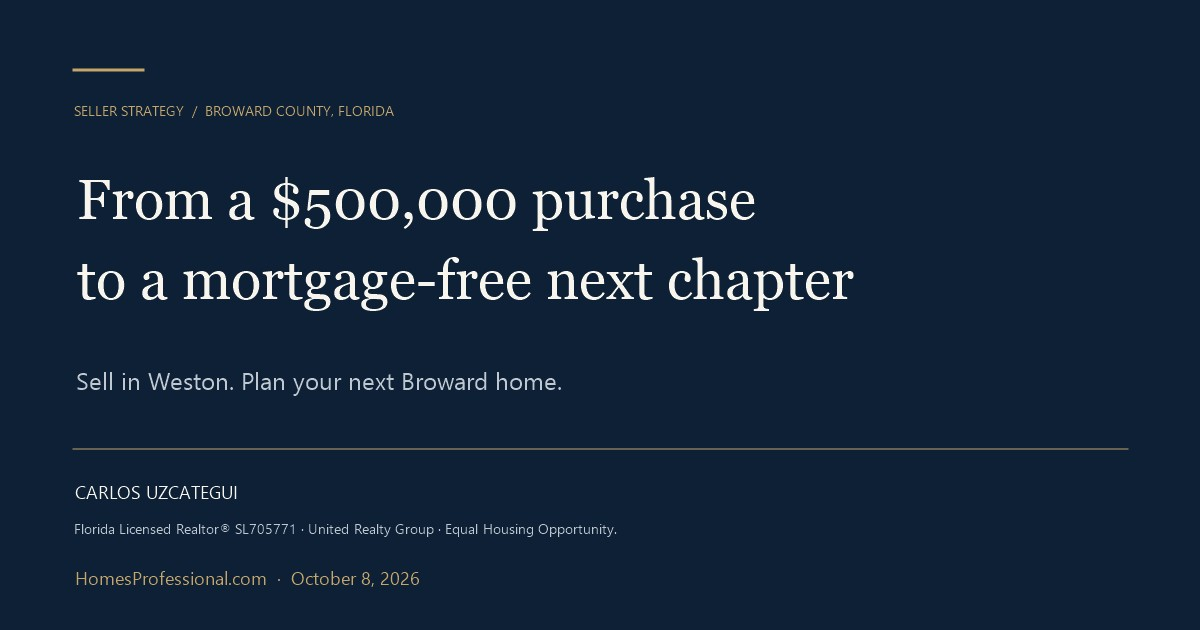
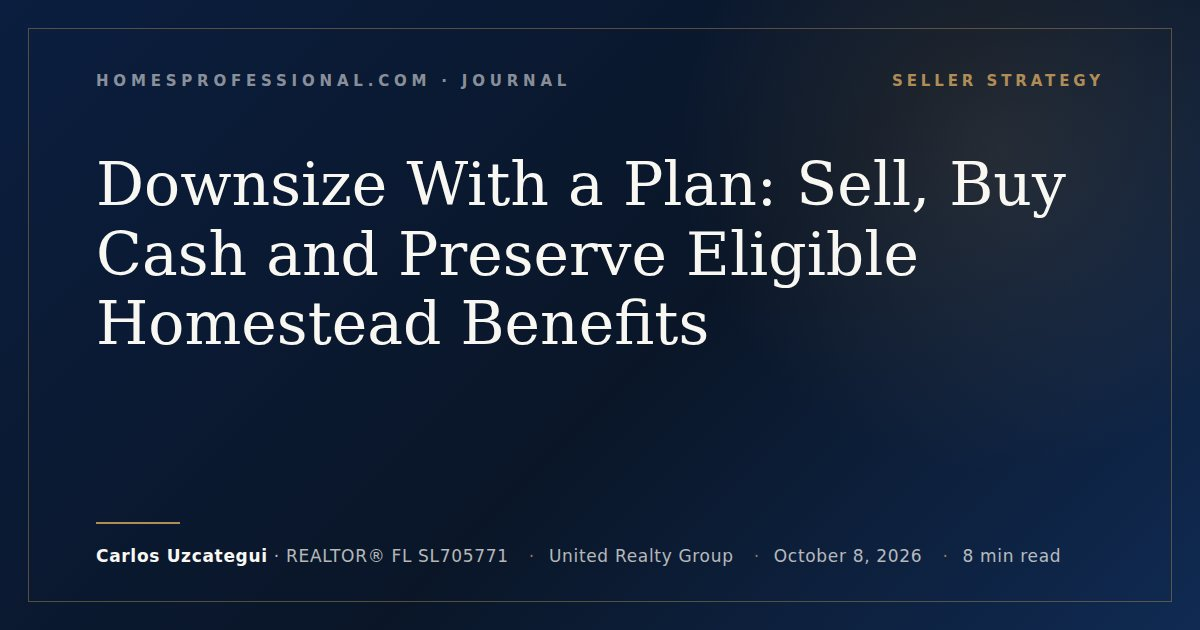
Publish approved downsizing journal revision
Coordinate post-closing occupancy, cash-purchase budgeting, homestead exemption, proportional portability and January 1 timing. Preserve the existing journal URL, original publication date and seller inquiry routing. Refresh the modification date, metadata, sitemap and share card.

Validation: local lint, complete verification suite, full prerender build, mobile and desktop render review, independent compliance and OG review, successful GitHub build and Netlify deploy preview. Carlos approved publication.

diff --git a/src/content/journal/weston-downsizing-equity-post-occupancy-homestead-portability.md b/src/content/journal/weston-downsizing-equity-post-occupancy-homestead-portability.md
@@ -1,9 +1,10 @@
 ---
-title: "From a $500,000 Purchase to a Mortgage-Free Next Chapter"
-seoTitle: "Broward Downsizing: Sell in Weston, Buy Your Next Home Cash"
+title: "Downsize With a Plan: Sell, Buy Cash and Preserve Eligible Homestead Benefits"
+seoTitle: "South Florida Downsizing: Cash & Homestead Portability"
 date: "2026-10-08"
+updated: "2026-10-21"
 slug: "weston-downsizing-equity-post-occupancy-homestead-portability"
-excerpt: "A Broward County plan to sell a Weston home, buy a townhome with cash, negotiate post-closing occupancy and preserve eligible homestead benefits."
+excerpt: "Plan a South Florida downsize around net sale proceeds, post-closing occupancy, a cash purchase and eligible Florida homestead portability."
 category: "Seller Strategy"
 image: "/images/journal/og/weston-downsizing-equity-post-occupancy-homestead-portability.jpg"
 created_by: "codex"
@@ -12,191 +13,106 @@ market: "Weston"
 funnel_stage: "consideration"
 ---
 
-## How a coordinated Broward County sale and cash purchase can turn accumulated equity into a simpler, more affordable home
+Your home may hold the equity to fund a more manageable next chapter. The question is whether selling it can leave you with the right replacement home, a lower monthly housing outlay and enough capital in reserve.
 
-A family bought its Weston home for $500,000 ten years ago. Today, imagine that home selling for $1 million. The bedrooms, garden and gathering spaces have served their purpose, but the family now wants less upkeep, lower monthly expenses and more flexibility.
+For a South Florida homeowner with sufficient net proceeds, the strategy can combine three decisions: purchase the next home without a mortgage, preserve eligible property-tax benefits and negotiate time to move after the sale closes.
 
-Could they use $500,000 of the available sale proceeds to buy a townhome outright in Broward County—and carry an eligible portion of their accumulated property-tax assessment benefit into that new home?
+We plan those decisions together. The post-closing stay provides time. The replacement purchase changes the household budget. Homestead exemption and portability can influence the new tax assessment. Each part must work for your circumstances.
 
-With sufficient net proceeds and the right transaction plan, that move can be possible. A negotiated post-closing occupancy agreement can also give them time to complete the purchase and move after their sale closes. The opportunity is to convert accumulated home equity into a home and budget that better suit the next chapter.
+## Start with the cash you can actually use
 
-For another household, the next chapter calls for additional bedrooms, a different location or a home better suited to daily life. The same planning discipline supports an upgrade, with a different replacement budget.
+Before choosing the next home, establish the amount available after the sale. Price appreciation, equity and net proceeds are different figures.
 
-The question is practical: **How do we turn the equity in your current Broward County home into the right next home within the county, while managing the timing, costs and disruption?**
+We begin with an estimated selling price, then account for the mortgage payoff, other liens, negotiated transaction expenses and any agreed concessions. We also identify money needed for the next purchase, moving, repairs, temporary occupancy and any applicable tax obligations.
 
-We approach the sale and purchase as one coordinated assignment. The plan starts with what you need from the move: a manageable monthly budget, room to grow, capital in reserve or a simpler routine.
+An occupancy deposit or escrow holdback may temporarily reduce the cash available at closing. The replacement-home budget must leave room for that restriction and your chosen emergency reserve.
 
-## Experience and infrastructure that serve your move
+**A cash purchase works only when available funds cover the purchase, its expenses and the reserves you intend to retain.** Spending every available dollar to eliminate a mortgage can leave the household with too little liquidity.
 
-Carlos Uzcategui brings 25 years of South Florida real estate experience, supported by United Realty Group's approximately 3,500-agent brokerage network. His work is backed by its Florida office network. [1]
+## Use post-closing occupancy to coordinate the move
 
-For homeowners, the value of that infrastructure is in its use: relevant agent relationships, local market knowledge, brokerage support and coordination across the communities you are considering. We combine MLS positioning, property presentation and outreach to appropriate buyer agents with direct management of negotiations and the next purchase. Agent participation and distribution depend on the property and the relevant channels.
+A negotiated post-closing occupancy agreement can allow you to remain temporarily in the home after ownership transfers. Once the sale closes and the available funds are disbursed, those proceeds can support the replacement purchase while you occupy the former home under the written arrangement.
 
-Professionalism means keeping your priorities visible at every stage. We examine the likely net proceeds, the replacement home's full carrying costs and the terms that can make the transition workable. The strongest offer for your circumstances may depend on financing certainty, inspection terms and possession timing as well as price.
+That sequence may help avoid temporary accommodation, storage and a second move when the two transactions fit within the agreed period. It also gives the next purchase a firm move-out deadline, so the replacement search and a backup plan should be underway before committing to the stay.
 
-## Sell, release equity and negotiate time to move
+The arrangement requires buyer agreement. We assess whether the proposed duration fits the buyer's financing, insurance, intended occupancy and applicable association requirements.
 
-A negotiated **post-closing occupancy agreement**, sometimes called a rent-back, can let a seller remain in the home for an agreed period after the sale closes.
+The written terms should settle the departure date, occupancy payment, deposit or holdback, utilities, maintenance, insurance responsibilities, damage, access, inspections and consequences of delayed possession. Legal counsel should address the agreement's terms and enforceability.
 
-Ownership transfers to the buyer. Once the transaction closes and funds are disbursed, the seller receives the available net proceeds after mortgage payoff, transaction costs and any agreed holdbacks. The seller then occupies the home under the written agreement rather than as its owner.
+Florida Realtors explains that the post-closing occupancy rider is not the complete occupancy agreement. It can make the contract contingent on reaching that agreement and provide termination rights if the parties cannot agree. The actual occupancy terms need to be resolved. [1]
 
-That sequence can allow you to use released equity for the next Broward County purchase while having time to complete the move. It can reduce the need for temporary accommodation, storage and a second move, depending on the schedule and costs negotiated.
+## Protect the homestead benefits that may support the move
 
-The written arrangement should address the departure date, occupancy payment, deposits or escrow, utilities, maintenance, insurance, damage, inspections and what happens if possession is delayed. Florida Realtors explains that the post-closing occupancy rider is not itself a complete occupancy agreement; the parties must settle the actual terms. We coordinate with the closing professionals and legal counsel as appropriate. [2]
+Three related concepts affect the replacement home's tax position:
 
-Buyer consent is essential. Financing, insurance and association requirements must support the arrangement. A long occupancy period can conflict with a buyer's intended use or lender requirements. It must be evaluated for that transaction.
+- **Homestead exemption** reduces an eligible primary residence's taxable value. Verify the new home's eligibility and submit a new application.
+- **Save Our Homes** limits annual assessed-value increases on qualifying homestead property, generally to the lower of 3% or the applicable CPI change. Review the former home's assessment record and accumulated assessment difference.
+- **Portability** transfers an eligible portion of that assessment difference to another Florida homestead. Confirm eligibility, the transfer calculation and timely filing.
 
-## A client's experience: Diego Tolotto
+These are assessment and exemption benefits; they are not cash credits or a guarantee that the entire tax bill will fall. [2][3]
 
-In his December 18, 2023 review, Weston client **Diego Tolotto** describes Carlos negotiating a seven-month post-occupancy arrangement as part of his family's sale and relocation. He specifically credits Carlos with:
+For 2026, the first $25,000 homestead exemption applies to school and non-school property taxes. The additional inflation-adjusted exemption is up to $26,411 on assessed value above $50,000 and applies only to non-school taxes. Use the amounts applicable to the year your new home qualifies. [3][4]
 
-> “securing a beneficial 7-month post-occupancy that eased our family's relocation, at a low rental per month.”
+**The old homestead exemption does not automatically move with you.** You apply for the new home's exemption and separately request the eligible portability transfer. [5]
 
-The review illustrates why possession timing belongs in the negotiation. Time to move can have considerable practical value for a household. This is a client-reported experience, not a promise that another buyer will accept the same terms. It does not establish Diego's tax savings, sale price or replacement purchase. [3]
+### Downsizing does not necessarily transfer the entire assessment difference
 
-## Florida homestead benefits: preserve the assessment advantage
+Portability uses the property appraiser's relevant just values and assessed values. It is not calculated from your mortgage balance, original purchase price or sale profit.
 
-Three separate concepts matter when moving between Florida primary residences.
+When the replacement has a lower just value, the transfer is generally proportional rather than the full former assessment difference. Applicable rules impose a maximum $500,000 assessment reduction. Ownership interests and changes in co-ownership can affect the result; the property appraiser determines the approved amount. [6]
 
-**Homestead exemption** reduces an eligible home's taxable value. For 2026, the first $25,000 applies to school and non-school property taxes. The additional, inflation-adjusted exemption is up to $26,411 and applies only to non-school taxes. These are reductions in taxable value, not cash credits. [4]
+The practical step is to obtain the former home's assessment record and estimate the replacement home's taxes with and without eligible portability. Do not budget from the replacement seller's existing tax bill: their ownership history and benefits may differ from yours. [7]
 
-**Save Our Homes** limits annual increases in a qualifying homestead's assessed value to the lower of 3% or the applicable inflation measure. Over time, the assessed value can become substantially lower than the property appraiser's just value. That difference is the accumulated assessment benefit. The cap limits assessed-value growth, not the entire tax bill. [5]
+## Connect the occupancy agreement to the tax calendar
 
-**Portability** can move an eligible assessment benefit to a new Florida homestead. When downsizing to a property with a lower just value, the benefit is generally proportional. When moving to a property of equal or greater just value, the eligible assessment difference can generally transfer up to $500,000. The property appraiser determines the amount. [6]
+An extended stay may suit your move while delaying when you establish the next home as your permanent residence. That tradeoff deserves attention before you agree to possession terms.
 
-You apply for a new homestead exemption and separately request portability; the former exemption does not automatically transfer. The eligibility window is measured by tax years and abandonment of the former homestead, not simply three years after closing. Establishing permanent residence by January 1 and meeting the filing deadline matter. For 2027, Broward's timely homestead filing deadline is March 1, 2027. An occupancy period extending across January 1 can affect the plan. [5][7]
+Homestead eligibility generally depends on qualifying ownership and permanent residence as of January 1. A purchase alone does not establish every eligibility requirement. For a move intended to qualify for 2027 benefits, confirm your position as of January 1, 2027, and the timely filing deadline of March 1, 2027. [3][8]
 
-## The Weston example: bought for $500,000 ten years ago, now selling for $1 million
+Portability also has a tax-year eligibility window. It is not a rolling three years from your closing date. Broward's property appraiser explains that the window is tied to the former homestead and obtaining the new exemption within the applicable following tax years. [9]
 
-Consider a hypothetical family that purchased a Weston single-family home for **$500,000 in 2016**, maintained it as an eligible Florida homestead, and now sells it for **$1,000,000**. They use **$500,000 of their net sale proceeds to pay cash for a townhome in Broward County**, establishing it as their new Florida primary residence. Both the sale and the replacement purchase take place in Broward County, Florida.
+We therefore coordinate the sale closing, occupancy end date, replacement closing and intended residence date with the property appraiser and closing professionals. A stay crossing January 1 warrants particular review; it does not automatically preserve or disqualify a benefit.
 
-The townhome could be in Weston, Davie, Plantation, Pembroke Pines or another Broward community that fits the family's needs. We compare the specific property's budget and association documents before selecting it.
+## Calculate the full monthly result
 
-The original purchase price explains the family's appreciation history. Their current homestead tax record explains the assessment benefit. Their remaining loan balance and transaction costs determine the cash they can actually use. These are three different calculations.
+Buying cash eliminates the replacement mortgage payment. It leaves other ownership costs to be paid.
 
-This is a planning illustration, not an appraisal, lender quote or estimate for a particular listing. All costs are assumptions. For the portability calculation, we assume the property appraiser's relevant just values equal those prices; actual appraiser values can differ.
+Our comparison includes mortgage principal and interest, property taxes and assessments, insurance, association dues, maintenance reserves and utilities. We review association budgets, reserve funding, insurance coverage, scheduled increases and potential special assessments before recommending the replacement property.
 
-### First, distinguish appreciation from spendable equity
+We also separate the transition budget from the ongoing budget. Moving charges, transaction expenses and occupancy payments are one-time or temporary outlays. The ongoing comparison starts after the move and after any approved tax benefits take effect. Avoid double-counting taxes and insurance already included in mortgage escrow, or maintenance already covered by association dues.
 
-The increase from a $500,000 purchase to a $1 million sale is **$500,000 of gross price appreciation**. It is not automatically $500,000 of available cash. Current equity is the home's value less the remaining debt; net sale proceeds also subtract selling expenses.
+**Your potential reduction must be calculated from your numbers.** The result depends on the mortgage being eliminated and the replacement home's verified costs. An owner who already has no mortgage starts from a different position. We would substantiate any percentage estimate with a property-specific comparison before presenting it as your potential outcome.
 
-To make the cash purchase concrete, assume the family still owes **$300,000** on its existing mortgage. This balance is an illustration, not a figure implied by the original purchase price.
+We calculate the percentage as the reduction in monthly housing outlay divided by the current monthly housing outlay. Mortgage principal belongs in this cash-flow comparison because it affects the monthly budget, even though it also builds equity. We label estimates and distinguish cash-flow relief from economic savings.
 
-- **Original purchase price in 2016—historical reference:** $500,000.
-- **Sale price:** $1,000,000.
-- **Current equity before selling costs: $1 million less $300,000 debt:** **$700,000**.
-- **Mortgage payoff:** −$300,000.
-- **Assumed total negotiated brokerage commission: 5% of sale price:** −$50,000.
-- **Other seller closing costs allowance: 1% of sale price:** −$10,000.
-- **Net sale proceeds:** **$640,000**.
-- **Townhome purchased with cash:** −$500,000.
-- **Townhome purchase closing costs allowance: 3% of purchase price:** −$15,000.
-- **Capital remaining before moving and post-occupancy costs:** **$125,000**.
-- **Moving and post-occupancy allowance:** −$10,000.
-- **Remaining capital:** **$115,000**.
+## One coordinated plan for the sale and the next home
 
-**The family allocates $500,000 to a mortgage-free next home and retains $115,000 under these assumptions.** They do not have to spend the entire sale price on their next property.
+Carlos Uzcategui has been licensed in Florida since 2001. Through United Realty Group, we approach the sale, possession negotiation and replacement purchase as one assignment.
 
-The seller's combined cost allowance is **6%, or $60,000**: a hypothetical negotiated 5% total brokerage commission plus 1% for other seller closing costs. The townhome purchase allowance is **3%, or $15,000**. These are planning assumptions, not prescribed rates or quotes. Actual title charges, transfer taxes, prorations, prepaid expenses and negotiated concessions depend on the transaction; avoid counting the same charge twice.
+We position your current property against its immediate competition, prepare it for buyer review and use MLS visibility and relevant agent outreach to support the sale. We weigh offer price alongside financing certainty, concessions and possession terms. At the same time, we evaluate the next home's complete budget and the professional input needed to confirm the tax and occupancy plan.
 
-The **$125,000 remaining after the cash purchase and purchase closing costs** provides room for the move. After a further $10,000 moving and post-occupancy allowance, **$115,000 remains**, before any applicable income tax, additional repairs or furnishing, and temporary escrow holdbacks. A rent-back deposit may temporarily reduce the funds available for the purchase.
+The objective is a move that leaves you in a suitable home, with a manageable monthly commitment and capital available for what comes next.
 
-If the family had only $500,000 of equity before selling expenses, $60,000 of assumed selling costs would leave $440,000. A $500,000 cash purchase would then require additional funds. We establish the net-proceeds figure before setting the replacement-home budget.
+## Request a Private Downsizing Strategy Review
 
-### Next, preserve part of the assessment benefit accumulated over ten years
+Start with your property address, approximate mortgage balance, current monthly housing costs, preferred communities and intended moving date. We will review those priorities with you and develop a preliminary proceeds estimate, replacement-home budget and possession timeline, with tax and legal questions identified for the appropriate professionals.
 
-The family is not assumed to be paying property taxes on a $1 million assessed value. Its uninterrupted homestead history may have kept the assessment closer to its earlier value, even as market value rose.
+**[Request a Private Downsizing Strategy Review](/sell-weston?journal_cta=bottom&journal_offer=seller-strategy&journal_origin=weston-downsizing-equity-post-occupancy-homestead-portability&utm_campaign=weston-downsizing-equity-post-occupancy-homestead-portability&utm_content=bottom&utm_medium=internal&utm_source=journal#contact)**
 
-For this illustration, assume the original assessment was approximately $500,000 and the current Save Our Homes assessed value is **$600,000 before exemptions**, against a relevant appraiser just value of $1 million. The $600,000 figure is a hypothetical tax-record input. It cannot be established from the purchase price alone.
+WhatsApp / Text: [+1 954-865-6622](https://wa.me/19548656622) · Email: [contact@carlosre.com](mailto:contact@carlosre.com)
 
-Save Our Homes limits annual assessment increases; it does not freeze the assessment at $500,000. Actual increases, improvements and ownership changes must be checked against the property's record. [5]
-
-- **Former just value:** $1,000,000.
-- **Former assessed value before exemptions:** $600,000.
-- **Accumulated assessment difference:** **$400,000**.
-- **Difference as a share of former just value:** **40%**.
-- **New townhome's assumed just value:** $500,000.
-- **Proportional portability benefit: 40% × $500,000:** **$200,000**.
-- **New assessed value before exemptions:** **$300,000**.
-
-**The family moves into a $500,000 townhome with an illustrative assessed value of $300,000 before exemptions.** That is the practical portability advantage: a proportional share of the old home's accumulated assessment protection follows them into the smaller home. The transferred reduction is $200,000, rather than the full $400,000 difference. Its qualifying homestead exemptions then reduce the applicable taxable values further. [6]
-
-For transparent arithmetic, assume school taxes of 6 mills, non-school taxes of 12 mills and $600 annually in non-ad valorem assessments on each home. **These are illustrative rates and assessments, not the adopted rates for Weston or any other Broward municipality.** Taxing districts and non-ad valorem charges can differ between properties within Broward. Using the 2026 exemptions, the model produces annual property charges of approximately **$10,633 on the original home** and **$5,233 on the replacement**.
-
-Without portability, the same townhome with homestead exemption would have modeled annual property charges of approximately $8,833. **Portability therefore contributes $3,600 a year, or $300 a month, to this family's modeled savings.** The remaining property-charge reduction comes from the lower assessed value associated with the smaller purchase. [4][6]
-
-For this move within Broward, the family applies to the **Broward County Property Appraiser** for the new home's homestead exemption and the transfer of the eligible Save Our Homes benefit. Remaining in the same county does not make either benefit automatic. We use the former home's assessment record and the replacement property's tax estimate to plan the application and budget. [7]
-
-These calculations use 2026 exemption amounts to illustrate a stabilized budget after the new benefits take effect. A purchase later in 2026 may first qualify for 2027 benefits; use the enacted rules and exemption amounts for that tax year. Closing-year prorations and the first escrow estimate may differ. A buyer should not budget from the seller's existing tax bill.
-
-### Then compare the full monthly budget
-
-- **Mortgage principal and interest:** $2,100 in the Weston home → $0 in the Broward townhome.
-- **Property taxes and assumed assessments:** $886 in the Weston home → $436 in the Broward townhome.
-- **Insurance:** $600 in the Weston home → $250 in the Broward townhome.
-- **Association dues:** $150 in the Weston home → $550 in the Broward townhome.
-- **Maintenance reserve, outside association coverage:** $550 in the Weston home → $150 in the Broward townhome.
-- **Utilities:** $400 in the Weston home → $250 in the Broward townhome.
-- **Total monthly outlay:** **$4,686** in the Weston home → **$1,636** in the Broward townhome.
-
-**Modeled savings: $3,050 per month, or $36,600 per year—approximately 65%.**
-
-The largest single change is the **$2,100 monthly mortgage payment disappearing**. The sale pays off the former loan, and $500,000 of the released proceeds purchases the townhome outright. The household has no new mortgage payment.
-
-Of the modeled $3,050 monthly reduction, **$2,100 comes from removing mortgage principal and interest, $300 comes from portability, and $650 comes from the remaining changes in taxes and operating expenses**. Federal tax treatment is not counted as an additional monthly saving.
-
-This comparison already accounts for the original home's assumed $600,000 homestead assessment. It does not inflate the old tax bill by treating its full $1 million market value as its assessed value.
-
-The association budget deserves scrutiny. Confirm what dues cover, the insurance you must purchase, reserve funding, scheduled increases and potential special assessments. Maintenance allowances should not duplicate services already included in dues.
-
-The mortgage assumption matters particularly. If the original home already had no mortgage, its modeled monthly outlay would be approximately $2,586. Moving to the same townhome would then save about **37%, rather than 65%**. Mortgage principal is included here because it affects household cash flow, although it also builds equity.
-
-A smaller home can create financial breathing room. The actual result must be calculated from your mortgage, insurance quotes, tax record and replacement property's association documents.
-
-## The federal benefit: home-sale gain exclusion
-
-Florida homestead exemption is a **state property-tax benefit**. The separate federal provision relevant to selling a primary residence is the **home-sale capital-gains exclusion**.
-
-Eligible taxpayers can generally exclude up to $250,000 of gain, or up to $500,000 for qualifying married couples filing jointly. Ownership, use and prior-exclusion rules apply, including the general two-out-of-five-year tests. Buying another home or spending all the proceeds is not a condition of the current exclusion. [8]
-
-For this hypothetical sale, begin with the **$500,000 original purchase price**. For simplicity, assume the adjusted tax basis is also $500,000, with no additional basis adjustments, and that all $60,000 of the modeled selling expenses qualify to reduce the amount realized. The gain would be:
-
-**$1,000,000 − $60,000 − $500,000 = $440,000.**
-
-A qualifying married couple filing jointly could potentially exclude that entire $440,000 gain. A taxpayer eligible only for the $250,000 limit could have $190,000 remaining subject to tax. Owning the home for ten years does not by itself establish every eligibility requirement. The mortgage payoff does not reduce the capital gain. [8][9]
-
-Adjusted tax basis is separate from the home's assessed value and your remaining loan balance. Rental or business use, depreciation and other circumstances can change the result. Your CPA should confirm the calculation and reporting requirements before you commit sale proceeds.
-
-## Upgrading uses the same discipline
-
-For a family purchasing a larger or more expensive home within Broward County, released equity can support the down payment and a negotiated occupancy period can support the transition. Eligible portability can also help moderate the new property's assessment.
-
-An upgrade can still increase mortgage payments, insurance, taxes and maintenance. We compare the complete replacement budget, financing terms and cash reserves with your goals before negotiating the move.
-
-## Begin with your property's numbers
-
-Your next home should support the life you want to build. Our role is to connect that objective to a workable sale, a documented transition and an informed purchase.
-
-**Request a Private Property Strategy Call.** Share your Broward County property address, approximate mortgage balance, intended move date, preferred Broward communities and whether you are downsizing or upgrading.
-
-Carlos will review your property and priorities with you, develop a preliminary net-proceeds and replacement-cost comparison, and identify the possession terms and specialist input needed. That conversation gives you a basis for deciding whether to move, when to list and what to target next.
-
-[Request your seller strategy review](/sell-weston) · [WhatsApp Carlos: +1 954-865-6622](https://wa.me/19548656622)  
-Email: [contact@carlosre.com](mailto:contact@carlosre.com)  
-United Realty Group · 15951 SW 41 St #700, Weston, FL 33331
-
-*Educational planning example. Costs and tax rules checked October 8, 2026; use the applicable year's rules for an actual move. Tax eligibility is determined by the appropriate authorities. Obtain individualized tax, lending, insurance and legal advice. Outcomes and negotiated terms vary.*
+*Educational information reviewed October 21, 2026. Actual costs, negotiated terms and eligibility vary. The property appraiser determines exemption and portability eligibility. Obtain individualized legal, tax, lending and insurance advice before making binding decisions. This article makes no claim of achieved client savings.*
 
 Florida Licensed Realtor® SL705771 · United Realty Group · Equal Housing Opportunity.
 
 ## Sources
 
-1. [United Realty Group: brokerage support and agent count](https://www.urgfl.com/join-the-family/) and [official branch directory](https://www.urgfl.com/office-locations/), reviewed October 8, 2026.
-2. [Florida Realtors: The Most Misunderstood Form in the Library?](https://www.floridarealtors.org/news-media/news-articles/2023/06/most-misunderstood-form-library), June 2023; explanation of the post-closing occupancy rider.
-3. Diego Tolotto, verified review dated December 18, 2023, attributed and reproduced on [HomesProfessional.com](https://homesprofessional.com/). [Carlos's Realtor.com profile](https://www.realtor.com/realestateagents/56b2bc997e54f7010020ea51) identifies the reviewer and review date; availability may vary by region.
-4. [Florida Department of Revenue: 2026 additional homestead exemption adjustment](https://floridarevenue.com/property/Documents/cpi_homestead_exemption.pdf) and [Saint Johns County Property Appraiser: school and non-school exemption treatment](https://www.sjcpa.gov/homesteadportability/).
-5. [Florida Department of Revenue: Save Our Homes Assessment Limitation and Portability Transfer](https://floridarevenue.com/property/Documents/pt112.pdf).
-6. [Broward County Property Appraiser: portability downsizing and upsizing formulas](https://bcpa.net/FrequentlyAskedQuestions.asp).
-7. [Broward County Property Appraiser: homestead eligibility, applications and filing deadlines](https://bcpa.net/homestead.asp).
-8. [IRS: Topic 701, Sale of Your Home](https://www.irs.gov/taxtopics/tc701).
-9. [IRS: Publication 523, Selling Your Home](https://www.irs.gov/publications/p523).
+1. [Florida Realtors — The Most Misunderstood Form in the Library?](https://www.floridarealtors.org/news-media/news-articles/2023/06/most-misunderstood-form-library), June 2023; reviewed October 21, 2026.
+2. [Florida Department of Revenue — Save Our Homes Assessment Limitation and Portability Transfer, PT-112](https://floridarevenue.com/property/Documents/pt112.pdf).
+3. [Florida Department of Revenue — Property Tax Information for Homestead Exemption, PT-113](https://floridarevenue.com/property/Documents/pt113.pdf).
+4. [Florida Department of Revenue — Additional Homestead Exemption Adjustment, revised January 2026](https://floridarevenue.com/property/Documents/cpi_homestead_exemption.pdf).
+5. [Florida Department of Revenue — Can I keep my homestead exemption if I move?](https://floridarevenue.com/faq/Pages/FAQDetails.aspx?FAQID=1641&IsDlg=1).
+6. [Florida Statutes §193.155(8) — Homestead assessments and portability](https://www.leg.state.fl.us/statutes/index.cfm?App_mode=Display_Statute&URL=0100-0199/0193/Sections/0193.155.html). Apply the provisions effective for the relevant tax roll.
+7. [Broward County Property Appraiser — Frequently Asked Questions, estimating first-year taxes](https://bcpa.net/FrequentlyAskedQuestions.asp).
+8. [Broward County Property Appraiser — Homestead filing and 2027 deadlines](https://bcpa.net/homestead.asp).
+9. [Broward County Property Appraiser — Frequently Asked Questions, portability eligibility window](https://bcpa.net/FrequentlyAskedQuestions.asp).
